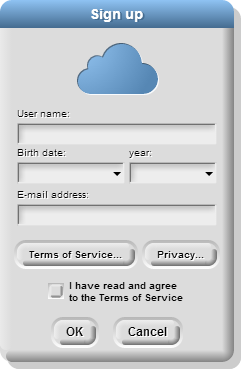
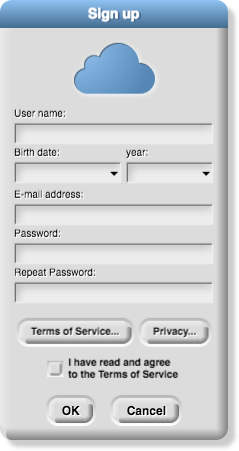
1.1.1 - sign-up process edits

Changed region(s): [[0.0, 0.0, 0.9958, 0.992], [0.0, 0.0, 0.0293, 0.0292]]

diff --git a/cur/programming/1-introduction/1-building-an-app/1-creating-a-snap-account.html b/cur/programming/1-introduction/1-building-an-app/1-creating-a-snap-account.html
@@ -12,30 +12,32 @@
         <h2>Getting Started with Snap<em>!</em></h2>
         <div class="learn">
     		<p><strong>In this <em>lab</em>,</strong> you'll program an app that you can share with others and play on your phone.</p>
-    		<p><strong>On this <em>page</em>,</strong> you'll learn how to create your own account to store your code, how to log in and out, and how to change your account password.</p> 
+    		<p><strong>On this <em>page</em>,</strong> you'll learn how to create your own account to store your code and how to log in and out.</p> 
         </div>
         
 		<h3>Creating an Account</h3>
-		<div class="forYouToDo" id="first"> 
+        <div class="forYouToDo" id="first"> 
 			<img class="imageRight" src="/bjc-r/img/sys/dialog-cloud-signup.png" alt="signing up for the cloud" title="signing up for the cloud"/> 
 			<ol>
 				<li>If you haven't already opened <span class="snap">snap</span>, open it now: <a href="http://snap.berkeley.edu/run" title="Snap! Build Your Own Blocks" target="_blank"><strong>http://snap.berkeley.edu/run</strong></a></li>
 				<li>
-                	In the Snap<em>!</em> window, click the Cloud menu (<img src="/bjc-r/img/1-introduction/cloud_button.png" style="height:1.6em;" alt="Cloud button"/>), select "Signup...", and follow the instructions.<br />
-				  <img class="indent" src="/bjc-r/img/sys/button-cloud-with-context.png" alt="cloud icon" title="cloud icon"/>
-              </li>
-				<li>Then, check your email to get your initial password, and log in.</li>
-				<li>Now, select "Change Password..." from the Cloud menu, and change your password to something easy for you to remember but hard for others to guess.</li>				
-				<div class="endnote">You may change your password at any time using the cloud menu (<img src="/bjc-r/img/1-introduction/cloud_button.png" style="height:1.6em;" alt="Cloud button" title="Cloud button"/>).</div>
+                	In the Snap<em>!</em> window, click the Cloud menu (<img src="/bjc-r/img/1-introduction/cloud_button.png" style="height:1.6em;" alt="Cloud button"/>), select "Signup...", and follow the instructions. Use your personal email not your school account because some schools block external emails.<br />
+                    <img class="indent" src="/bjc-r/img/sys/button-cloud-with-context.png" alt="cloud icon" title="cloud icon"/>
+                </li>
+                <div class="endnote">
+                    <p>You'll be asked to click a link in your email to verify your account, but you don't have to do that right now.</p>
+                    <p>You may change your password at any time using the cloud menu (<img src="/bjc-r/img/1-introduction/cloud_button.png" style="height:1.6em;" alt="Cloud button" title="Cloud button"/>).</p>
+                </div>
 			</ol>
 		</div>
 		<div class="takeNote">If you're doing this in class, you should be working with a partner.  If each of you is in front of a computer, one of you should keep Snap<i>!</i> open, and the other should keep this lab page open.  If you are sharing a computer, use two browser tabs.</div>			  
 		
         
         <h3>Logging In to and Out of Your Snap<em>!</em><a name="login" class="anchor">&nbsp;</a>Account</h3>
-		<div class="forYouToDo">
-			<p>You should be logged in whenever you are coding. Here's how to check if you are logged in:</p>
-            <ol start="5">
+        <div class="forYouToDo">
+    		<div class="todo">I don't love the flow (and the amount of text) here. Fix another day. --MF, 9/25/18</div>
+            <p>You should be logged in whenever you are coding. Here's how to check if you are logged in:</p>
+            <ol start="3">
 				<li>
 					Click the Cloud menu in the tool-bar.
                     <ul> 
@@ -48,8 +50,8 @@
 					Do you have time to continue programming right now?
 					<ul> 
 						<li><strong>If</strong> you do, then click NEXT (on the top right of this page).</li>
-						<li><strong>Otherwise</strong>, log out (using the Cloud menu).</li> 
-					</ul>
+						<li><strong>Otherwise</strong>, log out of Snap<em>!</em> (using the Cloud menu).</li> 
+                    </ul>
                     <div class="endnote">Remember to log out every time you are done programming.</div>
 				</li>
 			</ol>
